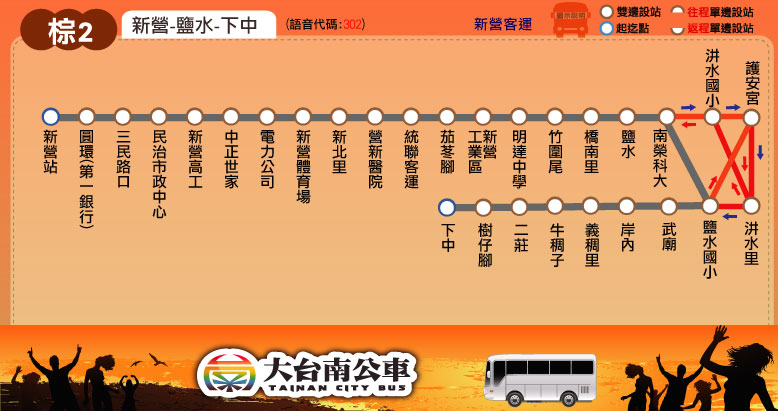
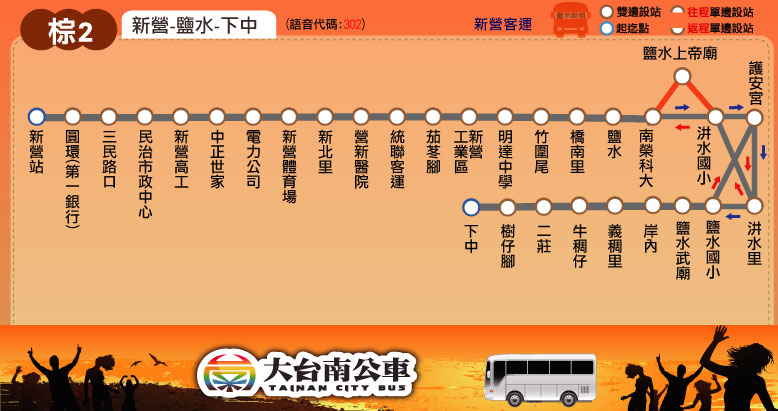
更新時刻表：棕2(繞駛水秀里)；新增站點：綠14(增「新化演藝廳」)

Changed region(s): [[0.0308, 0.1168, 0.9871, 0.7007]]

diff --git a/route/fare_and_time/brown_2.js b/route/fare_and_time/brown_2.js
@@ -2,7 +2,7 @@ brown_2_interval_name = ["新營","茄苳腳","鹽水","牛稠子","下中"];
 brown_2_interval_stop = [ // 2015.09.30 checked
 ["新營站","圓環(第一銀行)","三民路口","民治市政中心","新營高工","中正世家","電力公司","新營體育場","新北里","營新醫院","統聯客運"], // 新營
 ["茄苳腳","新營工業區","明達中學"], // 茄苳腳
-["竹圍尾","橋南里","鹽水","南榮科大","汫水國小","護安宮","汫水里","鹽水國小","武廟"], // 鹽水
+["竹圍尾","橋南里","鹽水","南榮科大","鹽水上帝廟","汫水國小","護安宮","汫水里","鹽水國小","鹽水武廟"], // 鹽水
 ["岸內","義稠里","牛稠子"], // 牛稠子
 ["二莊","樹仔腳","下中"] // 下中
 ];
@@ -16,9 +16,9 @@ brown_2_fare = [
 // format = [time at the start stop] or
 // [time, other] or
 // [time, start_stop, end_stop, other]
-brown_2_main_stop_name = ["新營","統聯客運","鹽水","汫水國小","下中"];
-brown_2_main_stop_time_consume = [0, 12, 22, 29, 30];
-brown_2_important_stop = [0, 2, 4]; // 新營, 鹽水, 下中
-var skip_stop = 3;
-brown_2_time_go = [["07:50",[[skip_stop+1,14]]],["10:00",[[skip_stop+1,14]]],["13:50",[skip_stop]],["15:50",[skip_stop]]];
-brown_2_time_return = [["08:40",[[skip_stop,12,skip_stop-1,2]]],["10:50",[[skip_stop,12,skip_stop-1,2]]],["14:30",[skip_stop]],["16:30",[skip_stop]]];
+brown_2_main_stop_name = ["新營","統聯客運","鹽水","鹽水<br />上帝廟","汫水國小","鹽水國小","下中"];
+brown_2_main_stop_time_consume = [0, 12, 22, 26, 32, 40, 47];
+brown_2_important_stop = [0, 2, 6]; // 新營, 鹽水, 下中
+var skip_stop = 3; // 鹽水上帝廟
+brown_2_time_go = [["07:20",[skip_stop,[skip_stop,-3]]],["10:15"],["12:10"],["15:15"]];
+brown_2_time_return = [["08:10"],["11:10"],["13:05"],["16:10"]];

diff --git a/route/fare_and_time/green_14.js b/route/fare_and_time/green_14.js
@@ -1,9 +1,8 @@
 green_14_interval_name = ["新化","九層嶺"];
 green_14_interval_stop = [
-["新化站","新化高工"], // 新化
+["新化站","新化演藝廳","新化高工"], // 新化
 ["冷水埤","高爾夫球場","鳳凰新城","礁坑路口","茄冬坑","貴竹坪","蔡厝","礁坑里活動中心","三十六崙","東屏仔","九層嶺"] // 九層嶺
 ];
-green_14_stop_time_consume = [0,2,3,6,7,9,11,13,14,15,16,18,20];
 green_14_fare = [
 [26],
 [26,26]
